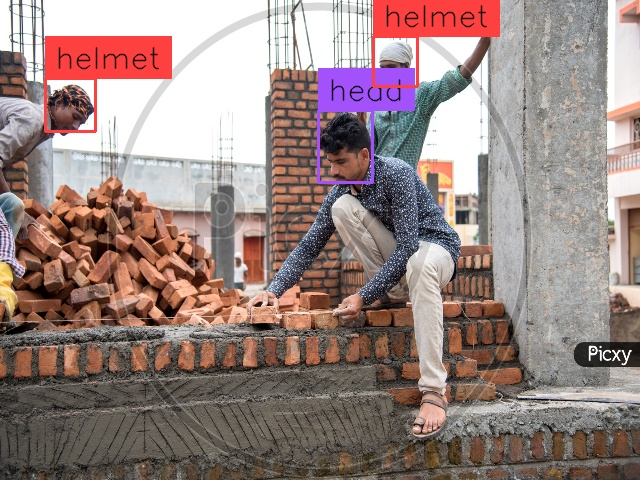
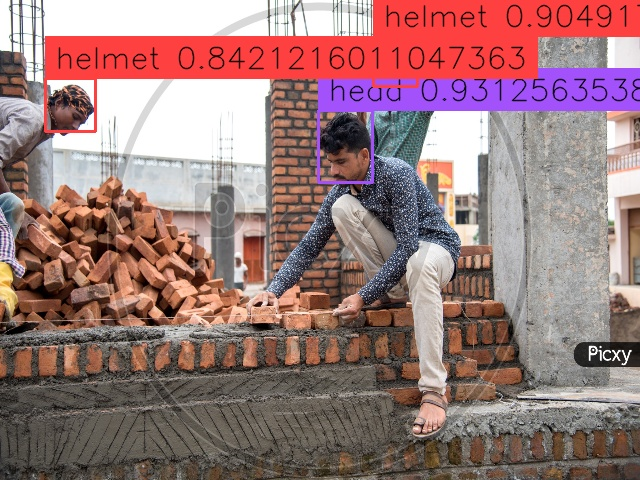
Improvement of labelling and reporting

Changed region(s): [[0.25, 0.0, 1.0, 0.25]]

diff --git a/utils/helperFunctions.py b/utils/helperFunctions.py
@@ -54,7 +54,6 @@ def imageLoader(folder_path):
         print(e.args)
 
 
-
 def saveResultCSV(result, output_folder_name, csv_file_name):
     """
     This function takes a list of results, an output folder name and a CSV file name as input, and saves the
@@ -82,14 +81,15 @@ def saveResultCSV(result, output_folder_name, csv_file_name):
     except Exception as e:
         print(e.args)
 
+
 def checkHeads(
-    labels,
-    image_name_list,
-    image_path_list,
-    image,
-    csv_result_msg_final,
-    i,
-    image_storage_folder,
+        labels,
+        image_name_list,
+        image_path_list,
+        image,
+        csv_result_msg_final,
+        i,
+        image_storage_folder,
 ):
     """
     This function checks if the given list of labels contains the word "head". If it does, the function saves the
@@ -109,21 +109,22 @@ def checkHeads(
     """
 
     # Looping through the results of detections
-    if "head" in labels:
-        print("head found")
-        # Getting the image name and location
-        image_name = f"{image_name_list[i]}"
-        image_loc = os.path.join(f"{image_storage_folder}/", image_name)
-        # cv2.imwrite(image_loc, image, [cv2.IMWRITE_JPEG_QUALITY, 1])
-        cv2.imwrite(image_loc, image)
+    for label in labels:
+        if label.split(" ")[0] == "head":
+            print("head found")
+            # Getting the image name and location
+            image_name = f"{image_name_list[i]}"
+            image_loc = os.path.join(f"{image_storage_folder}/", image_name)
+            # cv2.imwrite(image_loc, image, [cv2.IMWRITE_JPEG_QUALITY, 1])
+            cv2.imwrite(image_loc, image)
 
-        # print("After Compression")
-        # show_file_size(image_loc)
+            # print("After Compression")
+            # show_file_size(image_loc)
 
-        img_loc = image_path_list[i]
-        message = "No Helmet"
+            img_loc = image_path_list[i]
+            message = "No Helmet"
 
-        # Generating the message to store in csv file
-        csv_result_msg_final.append([image_name, img_loc, message])
+            # Generating the message to store in csv file
+            csv_result_msg_final.append([image_name, img_loc, message])
 
     return csv_result_msg_final

diff --git a/main.py b/main.py
@@ -30,7 +30,7 @@ def processImages(image_path_list, image_name_list, image_storage_folder):
         - csv_result_msg_final: A list of messages containing the detection results for each image in the input list.
     """
 
-    box_annotator = sv.BoxAnnotator(thickness=2, text_thickness=1, text_scale=1)
+    box_annotator = sv.BoxAnnotator(text_thickness=1, text_scale=1)
 
     csv_result_msg_final = []
 
@@ -54,7 +54,8 @@ def processImages(image_path_list, image_name_list, image_storage_folder):
                 # 假设 detection 是一个包含多个值的元组或列表
                 # 并且 class_id 是第三个值
                 _, _, class_id, _, _, dict = detection
-                labels.append(dict["class_name"])
+                # labels.append("{} {}".format(dict["class_name"], class_id))
+                labels.append("{} {}".format(dict["class_name"], class_id))
         except Exception as e:
             print(e.args)
             return
